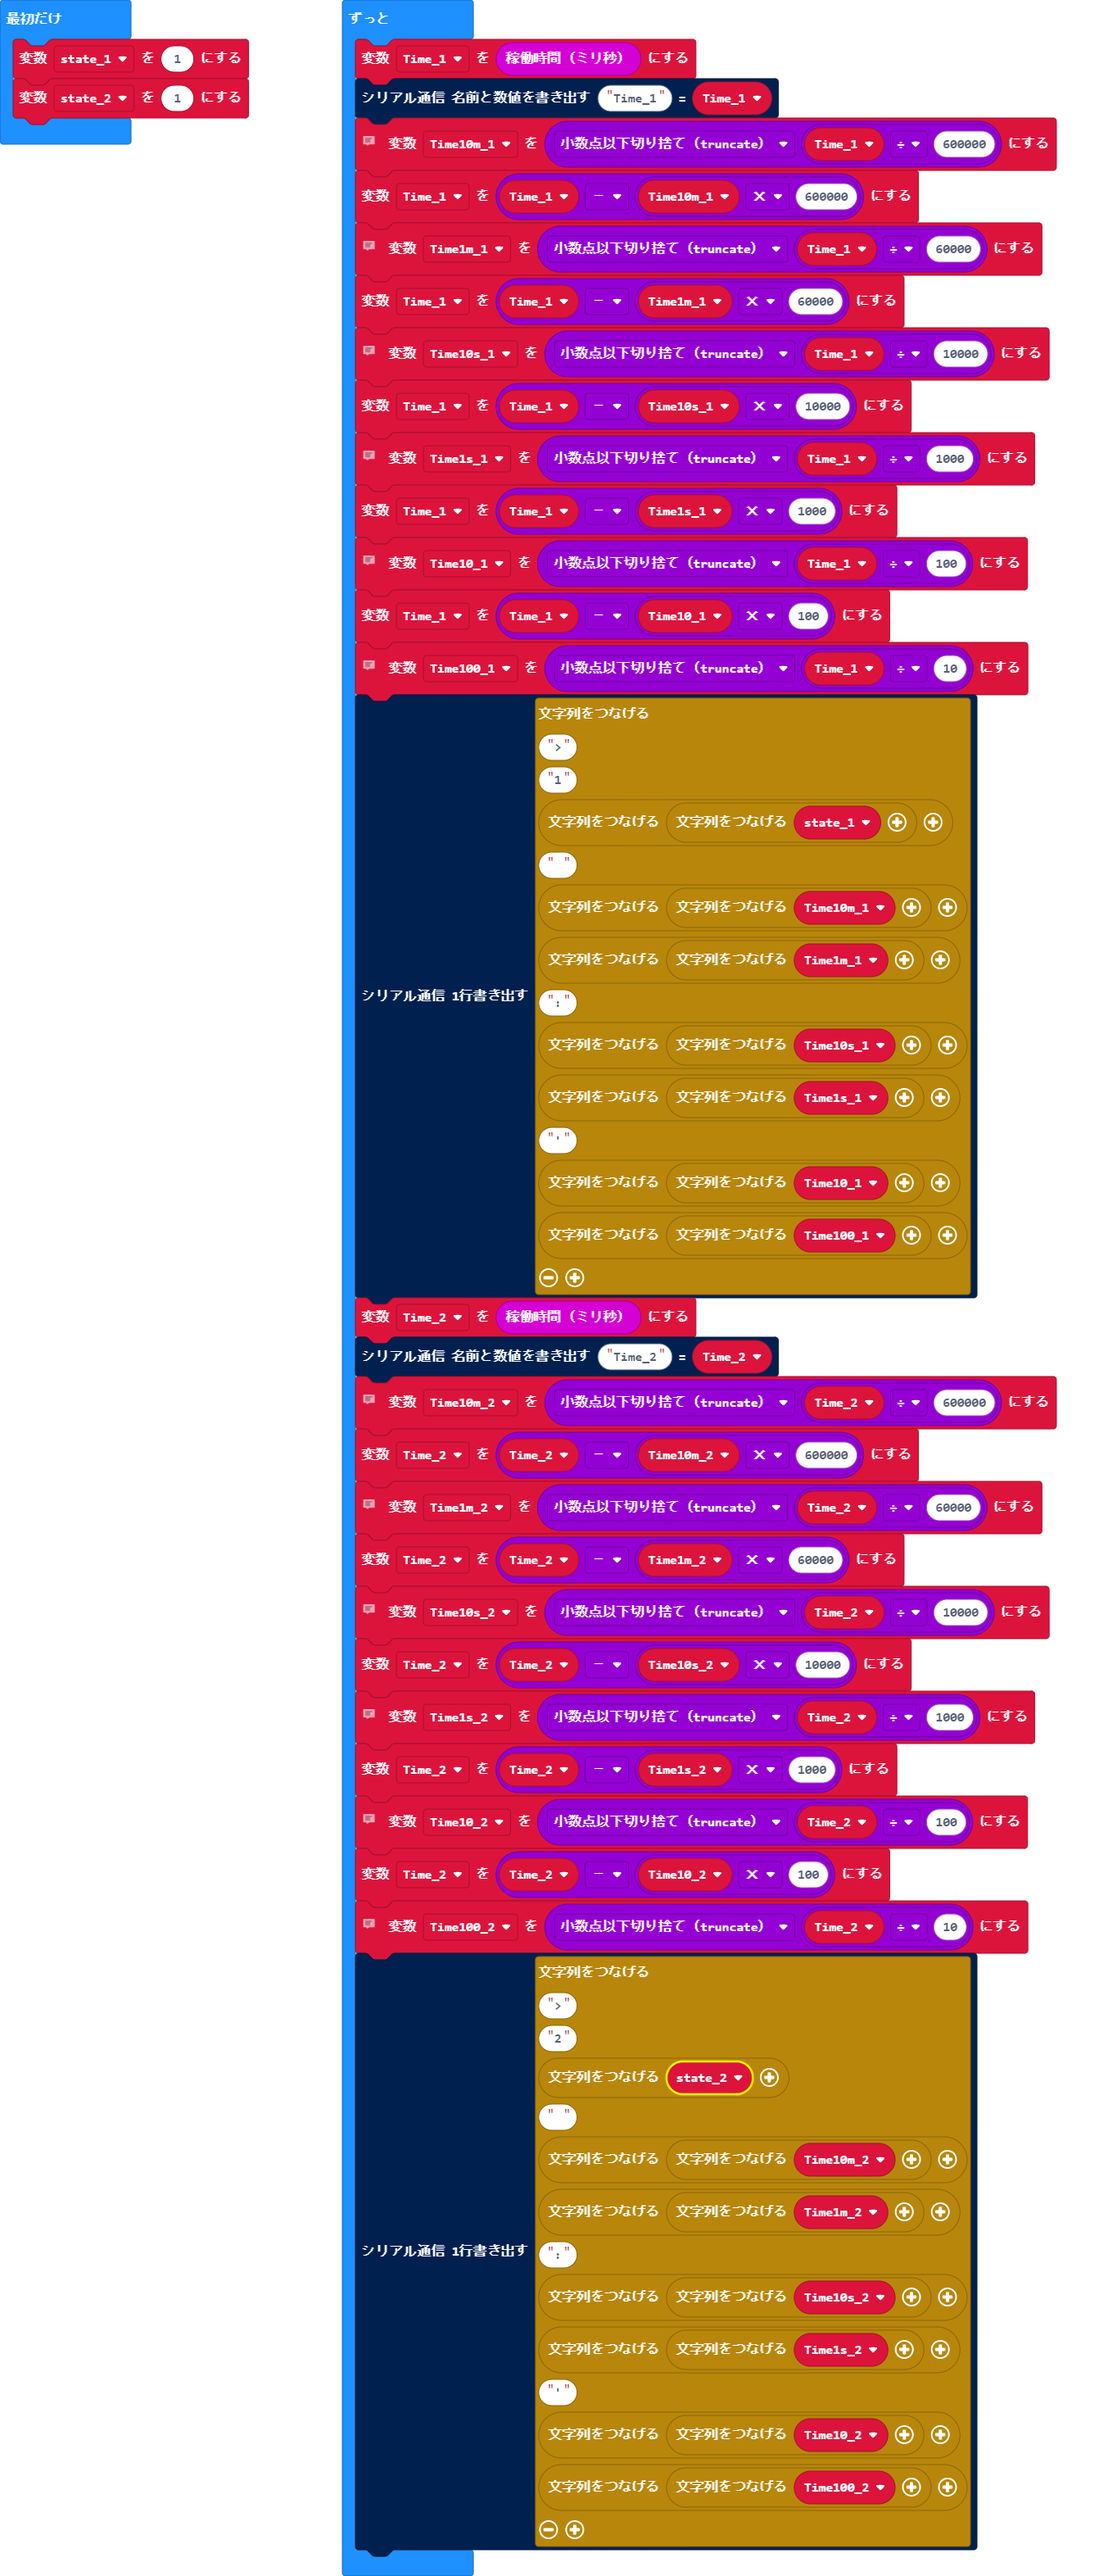
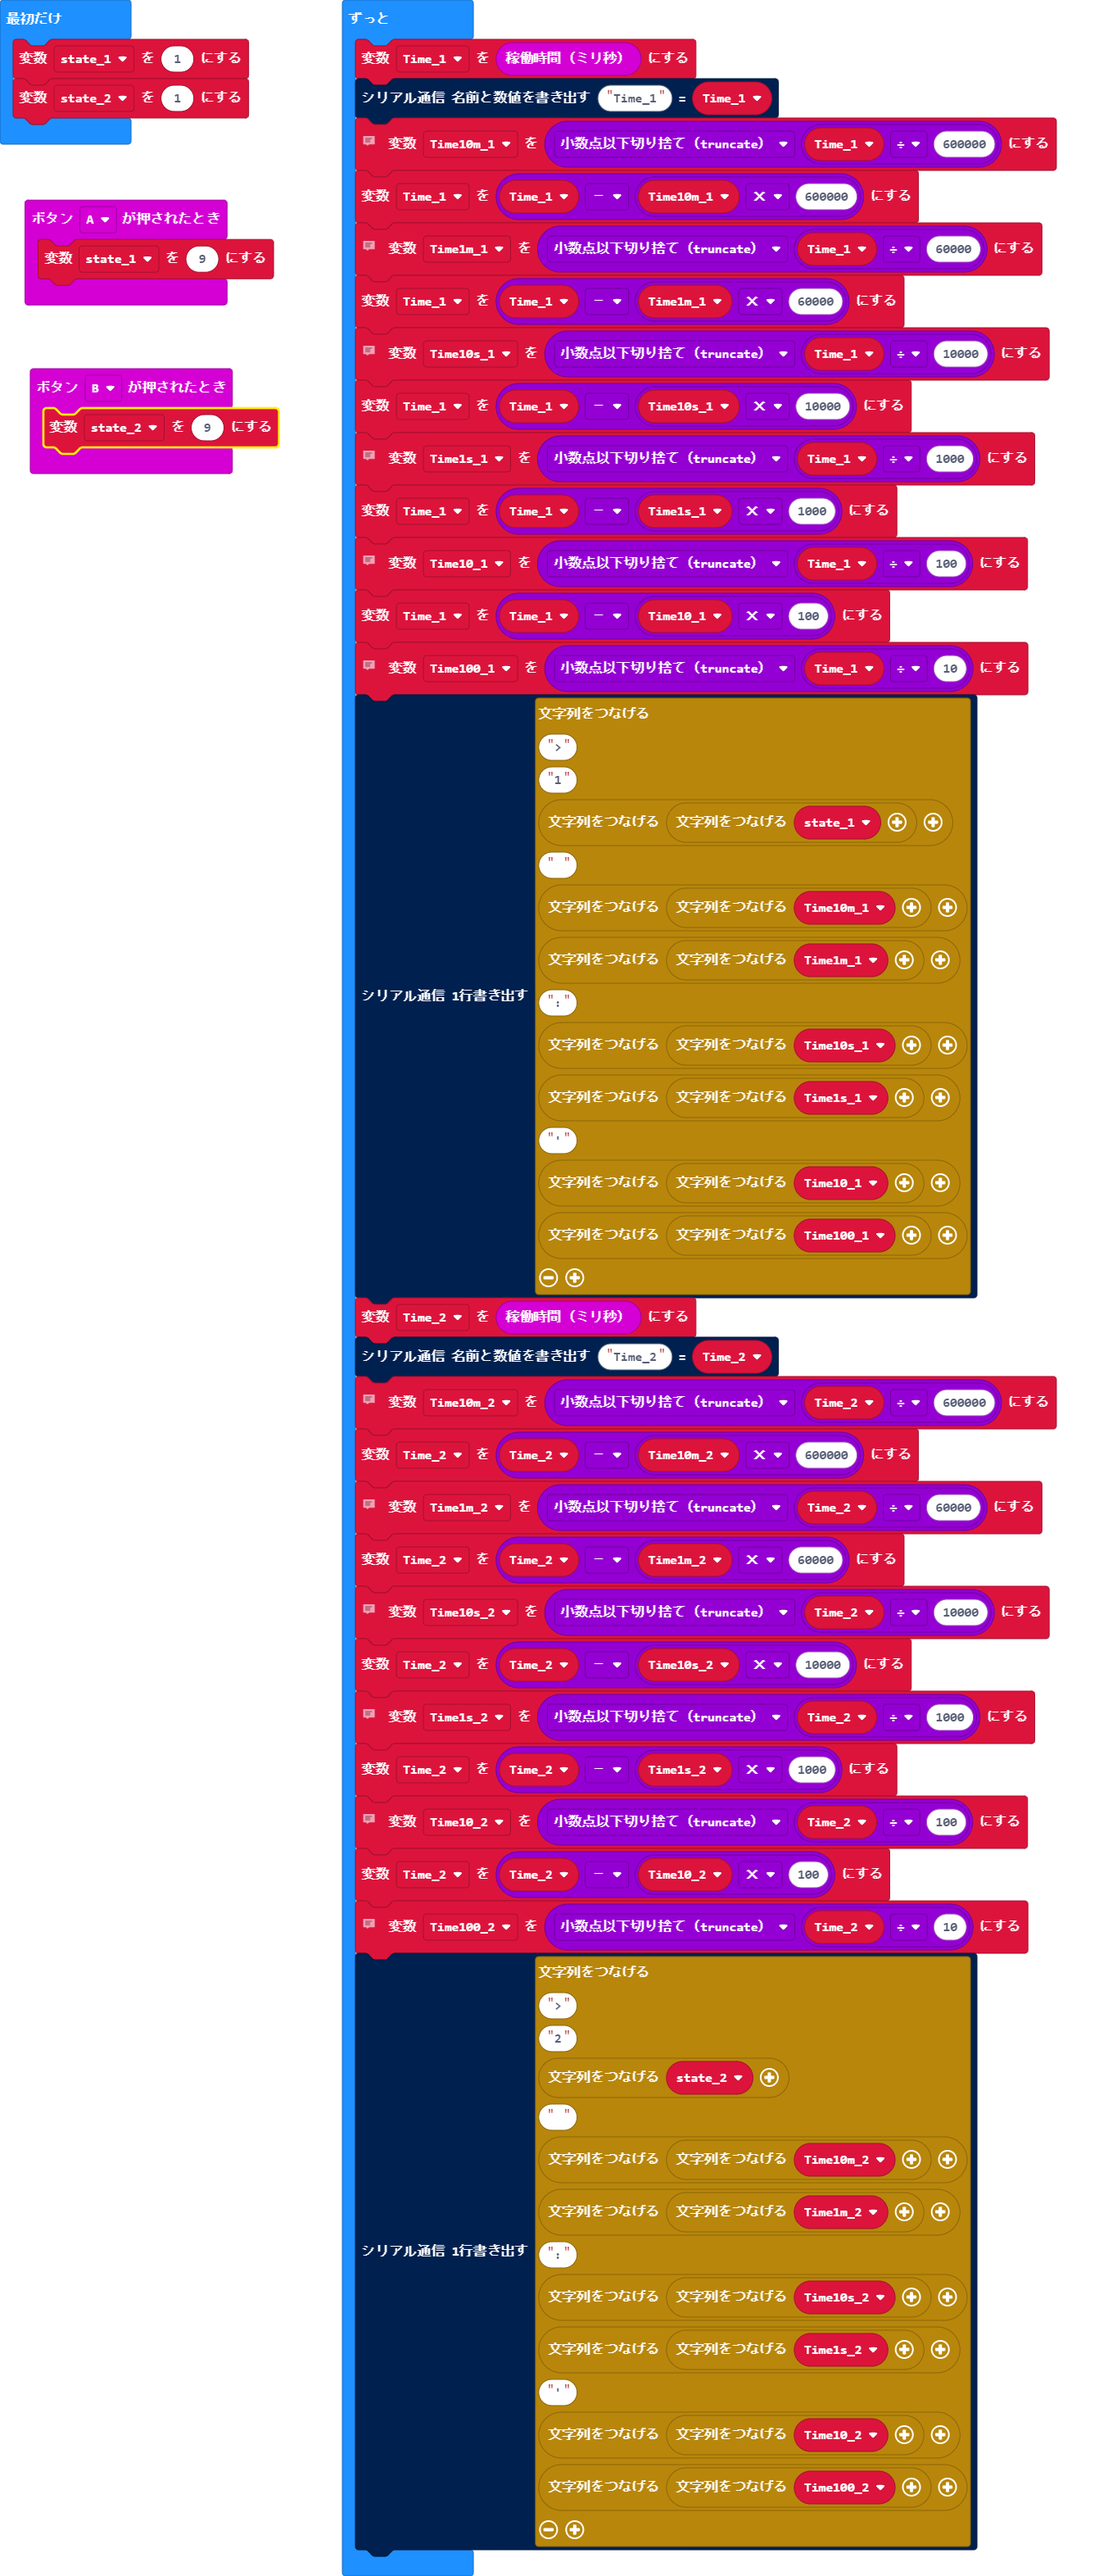
ゴール

Changed region(s): [[0.0, 0.0623, 0.275, 0.187]]

diff --git a/main.ts b/main.ts
@@ -1,3 +1,9 @@
+input.onButtonPressed(Button.A, function () {
+    state_1 = 9
+})
+input.onButtonPressed(Button.B, function () {
+    state_2 = 9
+})
 let Time100_2 = 0
 let Time10_2 = 0
 let Time1s_2 = 0
@@ -12,8 +18,10 @@ let Time10s_1 = 0
 let Time1m_1 = 0
 let Time10m_1 = 0
 let Time_1 = 0
-let state_1 = 1
-let state_2 = 1
+let state_2 = 0
+let state_1 = 0
+state_1 = 1
+state_2 = 1
 basic.forever(function () {
     Time_1 = input.runningTime()
     serial.writeValue("Time_1", Time_1)
